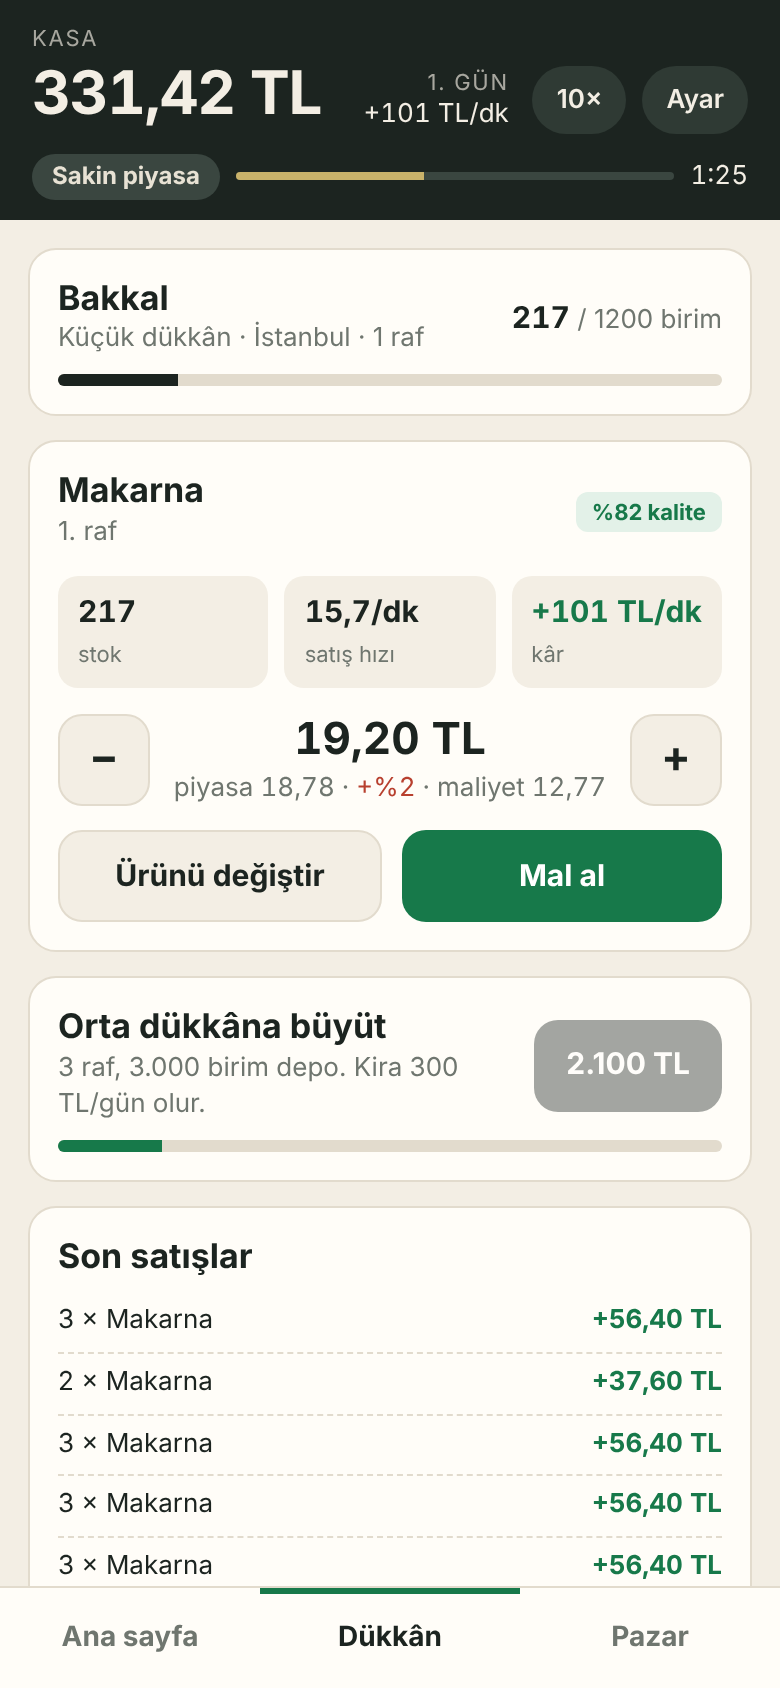
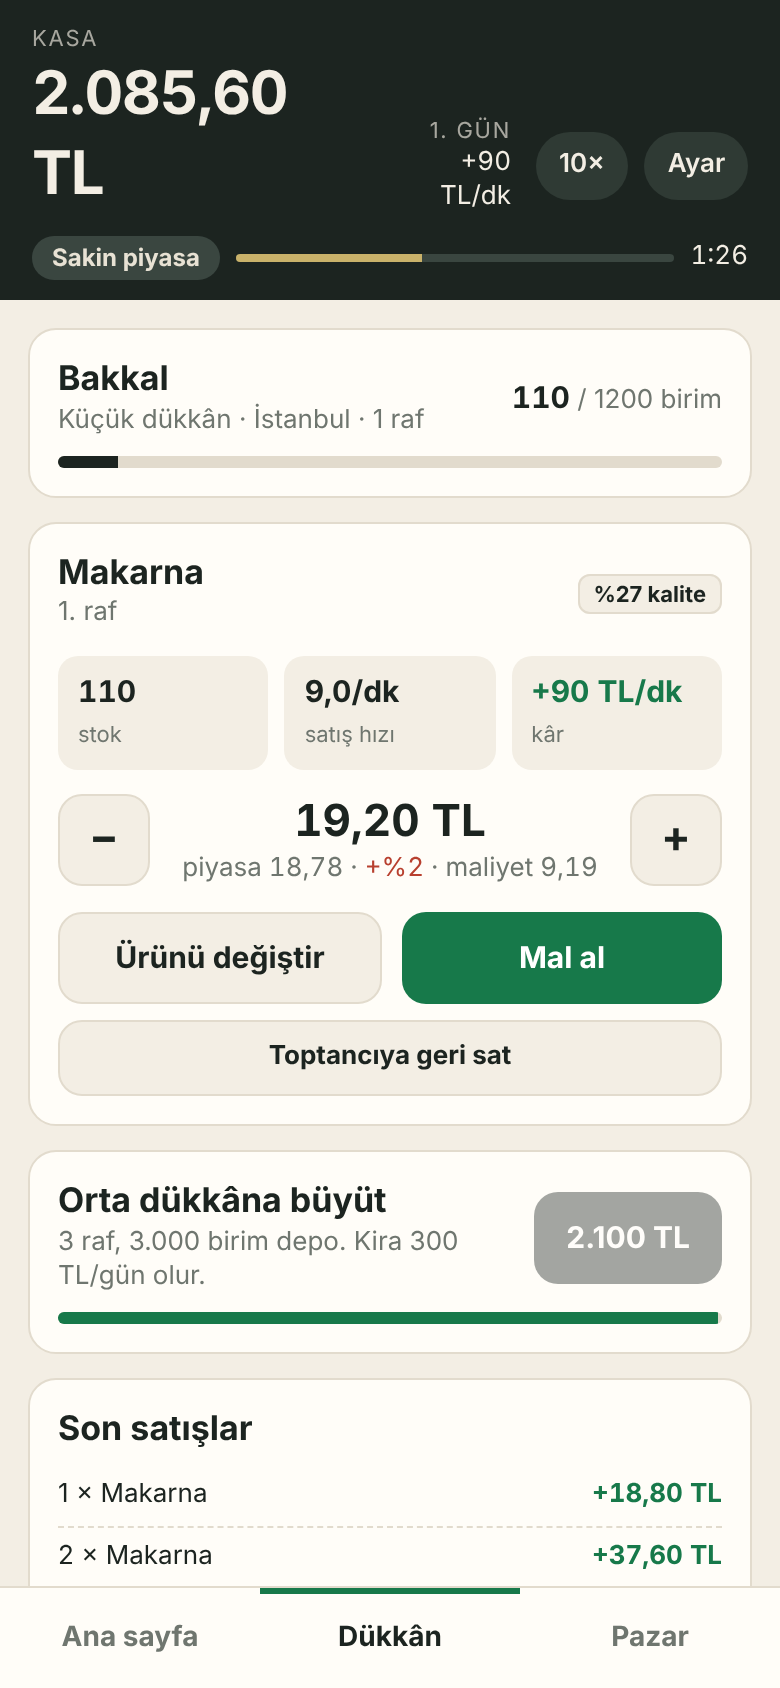
Kredi dengesi: düşük taban faiz, küçük dükkân kirası, kredi uyarısı, toptancıya geri satış, stokçu bot
Claude-Session: https://claude.ai/code/session_016ga1EdVkJkJaVmwRgvhwTG

diff --git a/src/ui.ts b/src/ui.ts
@@ -3,7 +3,7 @@
 import {CONFIG} from "./data/config";
 import {TYPES} from "./data/shops";
 import {tl,clamp} from "./format";
-import {S,P,T,PIDS,roundP,sysPrice,refPrice,ship,net,sysListing,allListings,shopOf,depotUsed,depotCap,qualMult,shelfRate,shopProfit,profitPerMin,shopRent,upCost,xpNeed,maxBuy,buy,upgrade,openShop,loanLimit,borrow,repay,step,newGame,setOnEv,snapshot,restore,interestRate,taxFor,dayProfit,rentTotal} from "./engine";
+import {S,P,T,PIDS,roundP,sysPrice,refPrice,ship,net,sysListing,allListings,shopOf,depotUsed,depotCap,qualMult,shelfRate,shopProfit,profitPerMin,shopRent,upCost,xpNeed,maxBuy,buy,upgrade,openShop,loanLimit,borrow,repay,step,newGame,setOnEv,snapshot,restore,interestRate,taxFor,dayProfit,rentTotal,sellBack,sellBackPrice,dayProfitEstimate} from "./engine";
 
 /* ---- Arayüz ---- */
 const $=id=>document.getElementById(id);
@@ -53,7 +53,7 @@ function renderShop(){
     h+=`<div class="card"><div class="row"><div><h2>${P[sf.pid].ad}</h2><div class="sub">${i+1}. raf</div></div><div>${st.q>0?qTag(st.qual):`<span class="tag k">Stok yok</span>`}</div></div>
     <div class="kv"><div><b class="num" id="q-${sf.pid}">${st.q}</b><span>stok</span></div><div><b class="num">${tl(rate,1)}/dk</b><span>satış hızı</span></div><div><b class="num ${pr>=0?"up":"dn"}">${st.q>0?(pr>=0?"+":"−")+tl(Math.abs(pr),0):"0"} TL/dk</b><span>kâr</span></div></div>
     <div class="price"><button class="step" data-a="price" data-i="${i}" data-v="-1" aria-label="Fiyatı azalt">−</button><div class="pmid"><b class="num">${tl(sf.price)} TL</b><div class="sub num">piyasa ${tl(ref)} · <span class="${diff>0.5?"dn":diff<-0.5?"up":""}">${Math.abs(diff)<.5?"":diff>0?"+":"−"}%${tl(Math.abs(diff),0)}</span> · maliyet ${tl(st.cost)}</div></div><button class="step" data-a="price" data-i="${i}" data-v="1" aria-label="Fiyatı artır">+</button></div>
-    <div class="row" style="margin-top:12px"><button class="btn ghost" style="flex:1" data-a="swap" data-i="${i}">Ürünü değiştir</button><button class="btn g" style="flex:1" data-a="goto" data-v="${sf.pid}">Mal al</button></div></div>`});
+    <div class="row" style="margin-top:12px"><button class="btn ghost" style="flex:1" data-a="swap" data-i="${i}">Ürünü değiştir</button><button class="btn g" style="flex:1" data-a="goto" data-v="${sf.pid}">Mal al</button></div>${st.q>0?`<button class="btn ghost sm full" style="margin-top:8px" data-a="sellback" data-v="${sf.pid}">Toptancıya geri sat</button>`:""}</div>`});
   const c=upCost(sh);if(c!=null){const z=CONFIG.sizes[sh.size+1];h+=`<div class="card goal"><div class="row"><div><h2>${z.ad} dükkâna büyüt</h2><div class="sub">${z.shelves} raf, ${tl(z.depot,0)} birim depo. Kira ${tl(Math.round(z.rent*t.tier*CONFIG.rentScale),0)} TL/gün olur.</div></div>${costBtn("upgrade",c)}</div><div class="depo"><i id="goalB" data-c="${c}" style="width:${clamp(S.cash/c*100,0,100)}%"></i></div></div>`}
   h+=`<div class="card"><h2 style="margin-bottom:6px">Son satışlar</h2><div class="feed" id="feed">${feedHtml()}</div></div>`;
   return h}
@@ -101,11 +101,23 @@ function swapSheet(i){const sh=cur(),have=T[sh.type].products.map(a=>P[a[0]]).fi
   openSheet(`<h2 style="margin-bottom:10px">${i+1}. rafta ne satılsın?</h2>`+(have.length?have.map(p=>`<button class="lst" data-a="setp" data-i="${i}" data-v="${p.id}"><div class="row"><b>${p.ad}</b><span class="sm num">${sh.stock[p.id].q} birim · %${Math.round(sh.stock[p.id].qual)}</span></div></button>`).join(""):`<div class="sub" style="margin-bottom:12px">Depoda rafta olmayan başka ürün yok. Önce pazardan al.</div>`)+`<button class="btn ghost full" data-a="close">Kapat</button>`)}
 function bankSheet(){sheetL=null;const lim=loanLimit(),av=Math.floor(Math.max(0,lim-S.debt)/100)*100,rp=Math.floor(Math.min(S.debt,Math.max(0,S.cash))),f=x=>tl(x,0)+" TL";
   openSheet(`<h2>Banka</h2><div class="sub">Kredi limitin, dükkânlarının ve depodaki malın değerinin %${Math.round(CONFIG.loanRatio*100)} kadarıdır. Faiz her gün sonunda kasadan kesilir. Borcun limitin yarısını geçince faiz artar: %${tl(CONFIG.interestDay*100,0)}, yarıdan sonra %${tl(CONFIG.interestDay*CONFIG.interestSteps[0].k*100,0)}, %80 üstünde %${tl(CONFIG.interestDay*CONFIG.interestSteps[1].k*100,0)}.</div>
-  <table class="tbl num"><tr><td>Borç</td><td>${f(S.debt)}</td></tr><tr><td>Kredi limiti</td><td>${f(lim)}</td></tr><tr><td>Günlük faiz (%${tl(interestRate()*100,1)})</td><td>${f(S.debt*interestRate())}</td></tr></table>
-  ${av>=100?`<div class="row"><b>Kredi çek</b><b class="num" id="bv"></b></div><input type="range" id="bq" min="100" max="${av}" step="100" value="${Math.max(100,Math.floor(av/200)*100)}"><button class="btn g full" data-a="borrow">Kredi çek</button>`:`<div class="card hint">Çekilebilir kredin yok.</div>`}
+  <table class="tbl num"><tr><td>Borç</td><td>${f(S.debt)}</td></tr><tr><td>Kredi limiti</td><td>${f(lim)}</td></tr><tr><td>Günlük faiz (%${tl(interestRate()*100,1)})</td><td>${f(S.debt*interestRate())}</td></tr><tr><td>Tahmini günlük kâr (faiz hariç)</td><td>${f(dayProfitEstimate())}</td></tr></table>
+  ${av>=100?`<div class="row"><b>Kredi çek</b><b class="num" id="bv"></b></div><input type="range" id="bq" min="100" max="${av}" step="100" value="${Math.max(100,Math.floor(av/200)*100)}"><div class="sub" id="bw" style="margin-bottom:8px"></div><button class="btn g full" data-a="borrow">Kredi çek</button>`:`<div class="card hint">Çekilebilir kredin yok.</div>`}
   ${rp>=1?`<div class="row" style="margin-top:16px"><b>Borç öde</b><b class="num" id="pv"></b></div><input type="range" id="pq" min="1" max="${rp}" value="${rp}"><button class="btn full" data-a="repay">Borç öde</button>`:""}
   <button class="btn ghost full" style="margin-top:10px" data-a="close">Kapat</button>`);
-  const b=$("bq"),q=$("pq");if(b){const u=()=>$("bv").textContent=f(+b.value)+" · faizi "+f((S.debt+ +b.value)*interestRate(S.debt+ +b.value))+"/gün";b.oninput=u;u()}if(q){const u=()=>$("pv").textContent=f(+q.value);q.oninput=u;u()}}
+  const b=$("bq"),q=$("pq");if(b){const u=()=>{const nd=S.debt+ +b.value,fi=nd*interestRate(nd),est=dayProfitEstimate(),w=$("bw");$("bv").textContent=f(+b.value)+" · faizi "+f(fi)+"/gün";
+    if(est<=0){w.textContent="Rafların şu an kâr üretmiyor; bu faizi mal satarak karşılaman gerekecek.";w.className="sub dn"}
+    else if(fi>est*.5){w.textContent="Dikkat: bu faiz, tahmini günlük kârının (%"+tl(est?fi/est*100:0,0)+") yarısından fazlasını götürür.";w.className="sub dn"}
+    else{w.textContent="Bu faiz, tahmini günlük kârının %"+tl(fi/est*100,0)+" kadarı.";w.className="sub"}};b.oninput=u;u()}if(q){const u=()=>$("pv").textContent=f(+q.value);q.oninput=u;u()}}
+let sheetP=null;
+function sellCalc(){const sh=cur(),st=sh.stock[sheetP],q=+$("sr").value,p=sellBackPrice(sh,sheetP);$("sv").textContent=q+" birim";$("st1").textContent=tl(q*p)+" TL";$("st2").textContent="−"+tl(q*(st.cost-p))+" TL";$("sdo").textContent=q+" birimi geri sat"}
+function sellSheet(pid){sheetL=null;sheetP=pid;const sh=cur(),st=sh.stock[pid],p=sellBackPrice(sh,pid);
+  openSheet(`<h2>${P[pid].ad}: toptancıya geri sat</h2><div class="sub">Sistem toptancısı malı her zaman maliyetinin altında geri alır. Nakde sıkıştığında ya da borç kapatırken çıkış yoludur.</div>
+  <table class="tbl num"><tr><td>Maliyetin</td><td>${tl(st.cost)} TL</td></tr><tr><td>Geri alım fiyatı</td><td class="dn">${tl(p)} TL</td></tr></table>
+  <div class="row"><b>Miktar</b><b class="num" style="font-size:20px" id="sv"></b></div><input type="range" id="sr" min="1" max="${st.q}" value="${st.q}">
+  <table class="tbl num"><tr><td>Kasaya girecek</td><td id="st1"></td></tr><tr><td>Zarar</td><td class="dn" id="st2"></td></tr></table>
+  <button class="btn full" data-a="dosell" id="sdo"></button><button class="btn ghost full" style="margin-top:8px" data-a="close">Vazgeç</button>`);
+  $("sr").oninput=sellCalc;sellCalc()}
 function taxSheet(){sheetL=null;const dp=dayProfit(),f=x=>tl(x,0)+" TL";let lo=0;
   openSheet(`<h2>Vergi dairesi</h2><div class="sub">Her gün sonunda o günün kârından vergi kesilir. Kâr; cirodan satılan malın maliyeti, kira ve faiz düşülerek hesaplanır. Oranlar dilimlidir: her oran yalnızca kendi dilimindeki kâra uygulanır.</div>
   <table class="tbl num">${CONFIG.taxBrackets.map(b=>{const r=`<tr><td>${b.upTo===Infinity?f(lo)+" üstü":f(lo)+" – "+f(b.upTo)}</td><td>%${tl(b.rate*100,0)}</td></tr>`;lo=b.upTo;return r}).join("")}</table>
@@ -127,6 +139,8 @@ document.addEventListener("click",e=>{
   else if(a==="sel"){if(S.level<P[v].lvl){toast(P[v].ad+" "+P[v].lvl+". seviyede açılır.");return}S.sel[cur().type]=v}
   else if(a==="bank"){bankSheet();return}
   else if(a==="tax"){taxSheet();return}
+  else if(a==="sellback"){sellSheet(v);return}
+  else if(a==="dosell"){const q=+$("sr").value,r=sellBack(cur(),sheetP,q);closeSheet();if(r)toast(q+" birim "+P[sheetP].ad+" geri satıldı: "+tl(r,0)+" TL.")}
   else if(a==="borrow"){const x=borrow(+$("bq").value);if(x)toast(tl(x,0)+" TL kredi çekildi.");bankSheet();tickUI();return}
   else if(a==="repay"){const x=repay(+$("pq").value);if(x)toast(tl(x,0)+" TL borç ödendi.");bankSheet();tickUI();return}
   else if(a==="goto"){S.cur=S.shops.indexOf(shopOf(v));S.sel[P[v].type]=v;S.tab="market";top()}

diff --git a/scripts/bot.ts b/scripts/bot.ts
@@ -1,11 +1,11 @@
-// Denge için basit bir oyuncu. "ucuz": krediye dokunmaz. "olcu": limitinin yarısına kadar borçlanır. "kredi": limitini hep sonuna kadar kullanır.
+// Denge için basit bir oyuncu. "ucuz": krediye dokunmaz. "olcu": limitinin yarısına kadar borçlanır. "kredi": limitini hep sonuna kadar kullanır. "stok": depoyu doldurmak için gerektiği kadar borçlanır, borcu hiç ödemez, büyümeyi kârıyla yapar.
 import * as k from "../src/engine";
 import { CONFIG } from "../src/data/config";
 import { TYPES } from "../src/data/shops";
 
 export interface BotResult { lv: Record<number, number>; ev: string[]; dead: number | null; cash: number; debt: number; level: number; shops: string }
 
-export function runBot(seed: number, mode: "ucuz" | "olcu" | "kredi", minutes: number): BotResult {
+export function runBot(seed: number, mode: "ucuz" | "olcu" | "kredi" | "stok", minutes: number): BotResult {
   k.setSeed(seed); k.newGame();
   const S = k.S, res: BotResult = { lv: {}, ev: [], dead: null, cash: 0, debt: 0, level: 1, shops: "" };
   const m = () => Math.round(S.t / 60);
@@ -20,7 +20,7 @@ export function runBot(seed: number, mode: "ucuz" | "olcu" | "kredi", minutes: n
     if (S.dead) { res.dead = m(); break; }
     if (S.level > lv) { lv = S.level; res.lv[lv] = m(); }
     if (i % 5) continue;
-    if (mode !== "ucuz") { const av = k.loanLimit() * (mode === "olcu" ? 0.5 : 1) - S.debt; if (av >= 500) k.borrow(Math.floor(av / 100) * 100); }
+    if (mode === "olcu" || mode === "kredi") { const av = k.loanLimit() * (mode === "olcu" ? 0.5 : 1) - S.debt; if (av >= 500) k.borrow(Math.floor(av / 100) * 100); }
     for (const t of TYPES) if (!S.shops.some((s) => s.type === t.id) && S.level >= t.level && S.cash >= t.cost + 1500 && k.openShop(t.id)) res.ev.push(t.id + "@" + m());
     for (const sh of S.shops) { const c = k.upCost(sh); if (c != null && S.cash >= c + 1500 && sh.shelves.every((x) => x) && k.upgrade(sh)) res.ev.push(sh.type + "^" + sh.size + "@" + m()); }
     for (const sh of S.shops) {
@@ -29,7 +29,13 @@ export function runBot(seed: number, mode: "ucuz" | "olcu" | "kredi", minutes: n
       const onShelf = sh.shelves.filter((x) => x).map((x) => x!.pid);
       const want = onShelf.concat(ranked.map((o) => o.pid).filter((p) => !onShelf.includes(p))).slice(0, sh.shelves.length);
       for (const pid of want) {
-        if (sh.stock[pid].q < 30) { const l = best(pid); if (k.net(l) < k.refPrice(pid) * 0.97) k.buy(l, Math.min(Math.floor(S.cash / want.length / k.net(l)), mode === "ucuz" ? 400 : 1500)); }
+        if (sh.stock[pid].q < 30) { const l = best(pid); if (k.net(l) < k.refPrice(pid) * 0.97) {
+          if (mode === "stok") { // depoyu doldur: kasa yetmiyorsa farkı bankadan çek
+            const q = Math.min(l.qty, Math.floor((k.depotCap(sh) - k.depotUsed(sh)) / want.length)), need = q * k.net(l) - S.cash;
+            if (need > 0) k.borrow(Math.ceil(need / 100) * 100);
+            k.buy(l, q);
+          } else k.buy(l, Math.min(Math.floor(S.cash / want.length / k.net(l)), mode === "ucuz" ? 400 : 1500));
+        } }
         const sf = sh.shelves.find((s) => s && s.pid === pid);
         if (sf) sf.price = k.roundP(k.refPrice(pid));
       }

diff --git a/src/engine.ts b/src/engine.ts
@@ -123,6 +123,23 @@ export function buy(l: Listing, qty: number) {
 export function upgrade(sh: Shop) { const c = upCost(sh); if (c == null || S.cash < c) return false; S.cash -= c; sh.val += c; sh.size++; fitShelves(sh); return true; }
 export function openShop(type: string) { const t = T[type]; if (S.level < t.level || S.cash < t.cost || S.shops.some((s) => s.type === type)) return false; S.cash -= t.cost; S.shops.push(mkShop(type)); return true; }
 
+/** Sistem toptancısının geri alım fiyatı. Her zaman maliyetin altındadır. */
+export function sellBackPrice(sh: Shop, pid: string) {
+  const st = sh.stock[pid];
+  return +Math.min(sysPrice(pid) * (CONFIG.sellBackBase + (CONFIG.sellBackQual * st.qual) / 100), st.cost * CONFIG.sellBackMaxCost).toFixed(2);
+}
+/** Depodaki malı zararına nakde çevirir. Seviye puanı kazandırmaz. */
+export function sellBack(sh: Shop, pid: string, qty: number) {
+  const st = sh.stock[pid];
+  qty = Math.min(qty, st.q);
+  if (qty <= 0) return 0;
+  const r = qty * sellBackPrice(sh, pid);
+  S.d.cogs = (S.d.cogs || 0) + qty * st.cost;
+  st.q -= qty; S.cash += r; S.d.rev += r;
+  if (st.q === 0) sh.acc[pid] = 0;
+  return r;
+}
+
 // ---- Banka ----
 export const assets = () => S.shops.reduce((s, sh) => s + sh.val + Object.values(sh.stock).reduce((a, x) => a + x.q * x.cost, 0), 0);
 export const loanLimit = () => Math.floor((assets() * CONFIG.loanRatio) / 100) * 100;
@@ -136,6 +153,9 @@ export function interestRate(debt: number = S.debt) {
   for (const s of CONFIG.interestSteps) if (u >= s.from) k = s.k;
   return CONFIG.interestDay * k;
 }
+
+/** Mevcut raflarla bir günde beklenen kâr (faiz hariç). Kredi kararında karşılaştırma için. */
+export const dayProfitEstimate = () => (profitPerMin() * CONFIG.daySec) / 60 - rentTotal();
 
 // ---- Devlet ----
 /** Dilimli vergi: her dilim yalnızca kendi aralığındaki kâra uygulanır. */

diff --git a/tests/engine.test.ts b/tests/engine.test.ts
@@ -54,7 +54,31 @@ describe("banka", () => {
     expect(k.interestRate(lim * 0.4)).toBeCloseTo(CONFIG.interestDay);
     expect(k.interestRate(lim * 0.6)).toBeCloseTo(CONFIG.interestDay * 1.5);
     expect(k.interestRate(lim * 0.9)).toBeCloseTo(CONFIG.interestDay * 2.25);
-    expect(k.interestRate(lim * 1.2)).toBeCloseTo(CONFIG.interestDay * 3);
+    expect(k.interestRate(lim * 1.2)).toBeCloseTo(CONFIG.interestDay * 4);
+  });
+  it("tek raflı bakkal, limitinin tamamını çekse bile zarara geçmez", () => {
+    for (const seed of [1, 2, 3, 4, 5]) {
+      k.setSeed(seed); k.newGame();
+      // başlangıçtaki üç üründen en kârlısının en ucuz ilanı
+      const best = ["makarna", "un", "seker"].map((p) => k.allListings(p)[0]).sort((a, b) => (k.refPrice(b.pid) - k.net(b)) * k.P[b.pid].rate - (k.refPrice(a.pid) - k.net(a)) * k.P[a.pid].rate)[0];
+      k.buy(best, 100);
+      k.borrow(1e9);
+      expect(k.dayProfitEstimate() - k.S.debt * k.interestRate()).toBeGreaterThan(0);
+    }
+  });
+});
+
+describe("geri satış", () => {
+  it("her zaman maliyetin altındadır ve stoğu nakde çevirir", () => {
+    for (const q of [20, 50, 85]) {
+      k.setSeed(q); k.newGame();
+      const l = k.allListings("makarna").find((x) => !x.sys)!;
+      k.buy(l, 100);
+      const sh = k.S.shops[0], cost = sh.stock.makarna.cost, before = k.S.cash;
+      expect(k.sellBackPrice(sh, "makarna")).toBeLessThan(cost);
+      const r = k.sellBack(sh, "makarna", 40);
+      expect(sh.stock.makarna.q).toBe(60); expect(k.S.cash).toBeCloseTo(before + r); expect(r).toBeLessThan(40 * cost);
+    }
   });
 });
 

diff --git a/src/data/config.ts b/src/data/config.ts
@@ -10,13 +10,18 @@ export const CONFIG = {
   xpBase: 1800, // seviye n için gereken toplam ciro: xpBase * (n-1)^xpPow
   xpPow: 2.2,
   loanRatio: 0.6, // kredi limiti = servet * oran
-  interestDay: 0.04, // taban günlük faiz
+  interestDay: 0.02, // taban günlük faiz
   // Borç / limit oranı eşiği geçtikçe faiz çarpanı büyür. Limit aşılırsa cezai oran uygulanır.
   interestSteps: [
     { from: 0.5, k: 1.5 },
     { from: 0.8, k: 2.25 },
-    { from: 1.0001, k: 3 },
+    { from: 1.0001, k: 4 },
   ],
+  // Malı sistem toptancısına geri satış: çıkış yoludur, kâr yolu değil.
+  // Birim fiyat = sistem fiyatı x (taban + kalite payı), ama hiçbir zaman maliyetin sellBackMaxCost katını geçmez.
+  sellBackBase: 0.35,
+  sellBackQual: 0.35,
+  sellBackMaxCost: 0.9,
   // Günlük kâr üzerinden dilimli vergi (her dilim yalnızca kendi aralığına uygulanır).
   taxBrackets: [
     { upTo: 1000, rate: 0 },
@@ -30,7 +35,7 @@ export const CONFIG = {
     kotu: { ad: "Kötü piyasa", m: 0.8 },
   },
   sizes: [
-    { ad: "Küçük", shelves: 1, depot: 1200, rent: 120, costK: 0 },
+    { ad: "Küçük", shelves: 1, depot: 1200, rent: 60, costK: 0 },
     { ad: "Orta", shelves: 3, depot: 3000, rent: 300, costK: 0.6 },
     { ad: "Büyük", shelves: 6, depot: 6000, rent: 700, costK: 3 },
   ],

diff --git a/scripts/sim.ts b/scripts/sim.ts
@@ -1,8 +1,8 @@
-// npm run sim — üç bot tipini üç dünyada 5 oyun saati oynatır, kilometre taşlarını oyun dakikası olarak basar.
+// npm run sim — dört bot tipini üç dünyada 5 oyun saati oynatır, kilometre taşlarını oyun dakikası olarak basar.
 import { runBot } from "./bot";
 const at = (r: ReturnType<typeof runBot>, key: string) => { const e = r.ev.find((x) => x.startsWith(key)); return e ? e.split("@")[1].padStart(4) : "   -"; };
 console.log("bot    dünya | 2.sv 3.sv 6.sv 9.sv | bakkal↑ manav kuruy. tekel | son: seviye  kasa     borç    iflas");
-for (const mode of ["ucuz", "olcu", "kredi"] as const)
+for (const mode of ["ucuz", "olcu", "kredi", "stok"] as const)
   for (const seed of [11, 222, 3333]) {
     const r = runBot(seed, mode, 300), lv = (n: number) => String(r.lv[n] ?? "-").padStart(4);
     console.log(`${mode.padEnd(6)} ${String(seed).padStart(5)} | ${lv(2)} ${lv(3)} ${lv(6)} ${lv(9)} | ${at(r, "bakkal^1")}    ${at(r, "manav@")}  ${at(r, "kuruyemis@")}   ${at(r, "tekel@")} | ${String(r.level).padStart(10)} ${String(r.cash).padStart(7)} ${String(r.debt).padStart(8)}  ${r.dead ?? "yok"}`);

diff --git a/tools/play.py b/tools/play.py
@@ -13,7 +13,7 @@ with sync_playwright() as p:
     pg.click('#spd'); pg.click('#spd'); pg.wait_for_timeout(6000)
     pg.click('[data-a=price][data-v="1"]'); pg.wait_for_timeout(300); pg.screenshot(path=out+'/4-dukkan.png')
     pg.click('[data-a=settings]'); pg.wait_for_timeout(200); pg.screenshot(path=out+'/5-ayar.png'); pg.click('[data-a=close]')
-    pg.click('#t-market'); pg.wait_for_timeout(200); pg.screenshot(path=out+'/6-pazar2.png'); pg.evaluate('()=>{const S=__k.S;S.cash=40000;S.xp=20000;S.speed=1}'); pg.wait_for_timeout(600); pg.click('#t-home'); pg.wait_for_timeout(300); pg.click('[data-a=openshop]'); pg.wait_for_timeout(300); pg.click('.lst >> nth=0'); pg.click('#sbuy'); pg.wait_for_timeout(300); pg.click('[data-a=upgrade]'); pg.wait_for_timeout(300); pg.screenshot(path=out+'/7-manav.png'); pg.click('#t-home'); pg.wait_for_timeout(400); pg.click('[data-a=bank]'); pg.wait_for_timeout(200); pg.screenshot(path=out+'/9-banka.png'); pg.click('[data-a=borrow]'); pg.wait_for_timeout(200); pg.click('#sheet [data-a=close]'); pg.wait_for_timeout(300); pg.click('[data-a=tax]'); pg.wait_for_timeout(200); pg.screenshot(path=out+'/10-vergi.png'); pg.click('#sheet [data-a=close]'); pg.wait_for_timeout(1200); pg.screenshot(path=out+'/8-ana.png',full_page=False)
+    pg.click('#t-market'); pg.wait_for_timeout(200); pg.screenshot(path=out+'/6-pazar2.png'); pg.evaluate('()=>{const S=__k.S;S.cash=40000;S.xp=20000;S.speed=1}'); pg.wait_for_timeout(600); pg.click('#t-home'); pg.wait_for_timeout(300); pg.click('[data-a=openshop]'); pg.wait_for_timeout(300); pg.click('.lst >> nth=0'); pg.click('#sbuy'); pg.wait_for_timeout(300); pg.click('[data-a=upgrade]'); pg.wait_for_timeout(300); pg.screenshot(path=out+'/7-manav.png'); pg.click('#t-home'); pg.wait_for_timeout(400); pg.click('[data-a=bank]'); pg.wait_for_timeout(200); pg.screenshot(path=out+'/9-banka.png'); pg.click('[data-a=borrow]'); pg.wait_for_timeout(200); pg.click('#sheet [data-a=close]'); pg.wait_for_timeout(300); pg.click('[data-a=tax]'); pg.wait_for_timeout(200); pg.screenshot(path=out+'/10-vergi.png'); pg.click('#sheet [data-a=close]'); pg.wait_for_timeout(1200); pg.screenshot(path=out+'/8-ana.png',full_page=False); pg.click('#t-shop'); pg.wait_for_timeout(300); pg.click('[data-a=sellback] >> nth=0'); pg.wait_for_timeout(200); pg.screenshot(path=out+'/11-gerisat.png'); pg.click('[data-a=dosell]'); pg.wait_for_timeout(300)
     info=pg.evaluate('''()=>{const S=__k.S;const over=[...document.querySelectorAll("#app *")].filter(e=>{const r=e.getBoundingClientRect();return r.width&&(r.right>391||r.left<-1)&&!e.closest(".prods")}).length;
       const small=[...document.querySelectorAll("#app *")].filter(e=>e.children.length==0&&e.textContent.trim()&&parseFloat(getComputedStyle(e).fontSize)<11).length;
       return {cash:S.cash,day:S.day,level:S.level,shops:S.shops.map(s=>s.type+s.size+':'+s.shelves.length),over,small,sw:document.documentElement.scrollWidth}}''')
